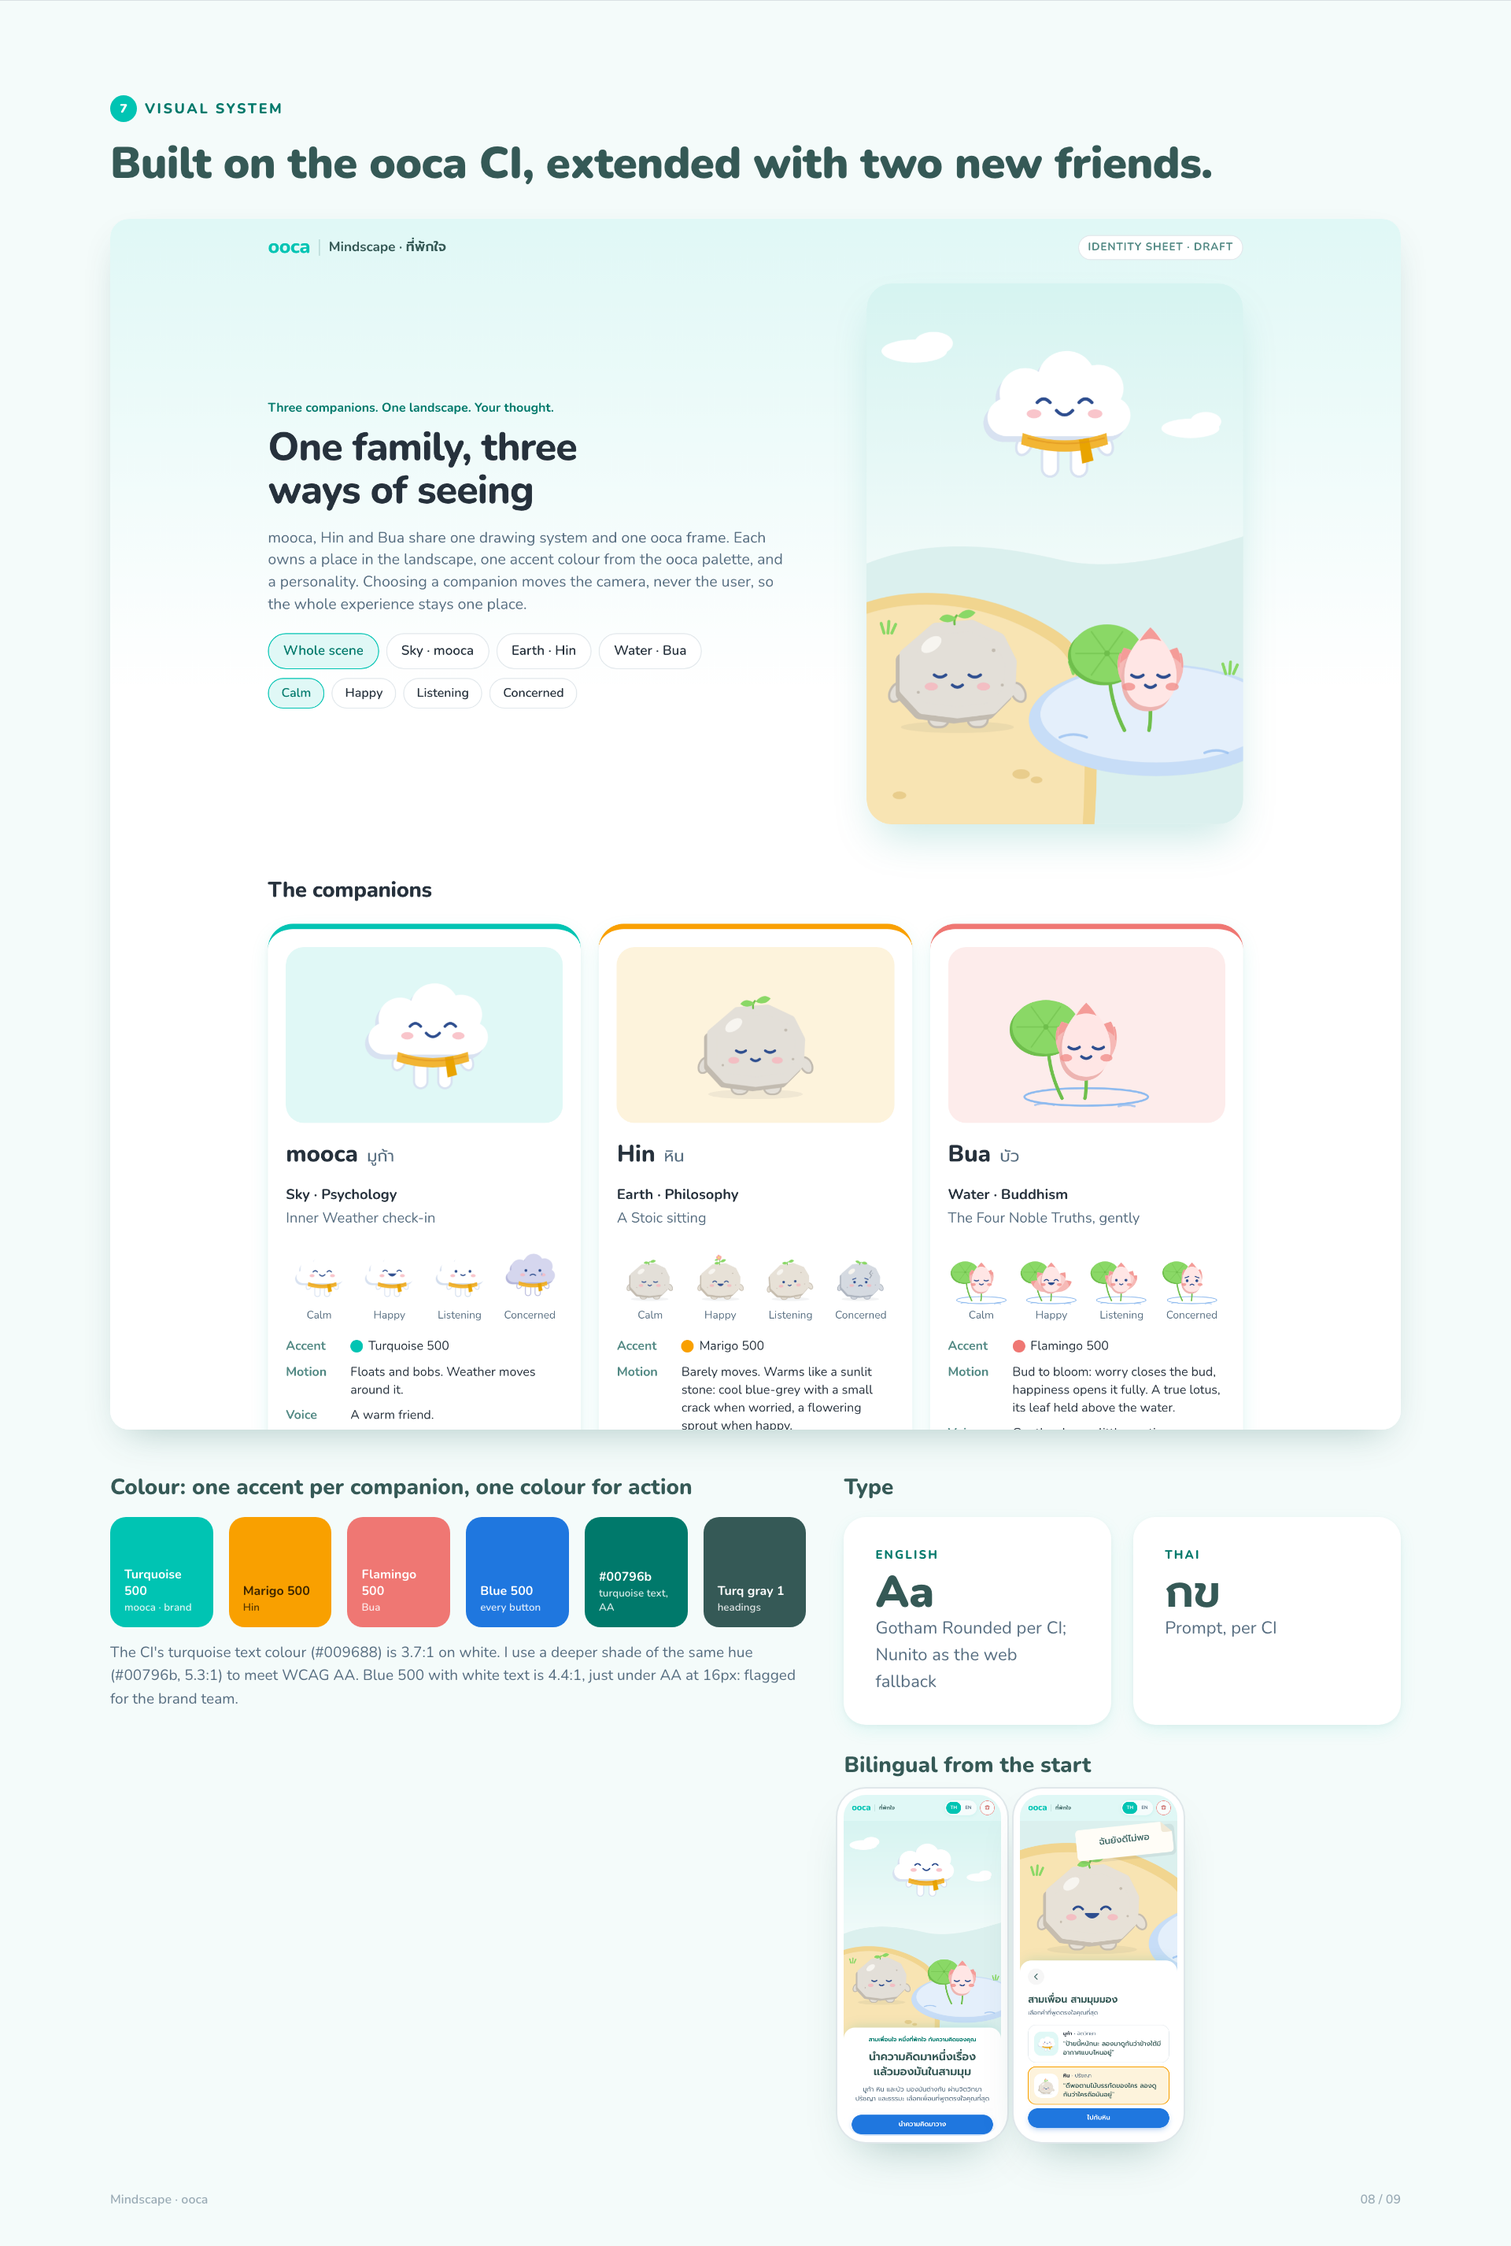
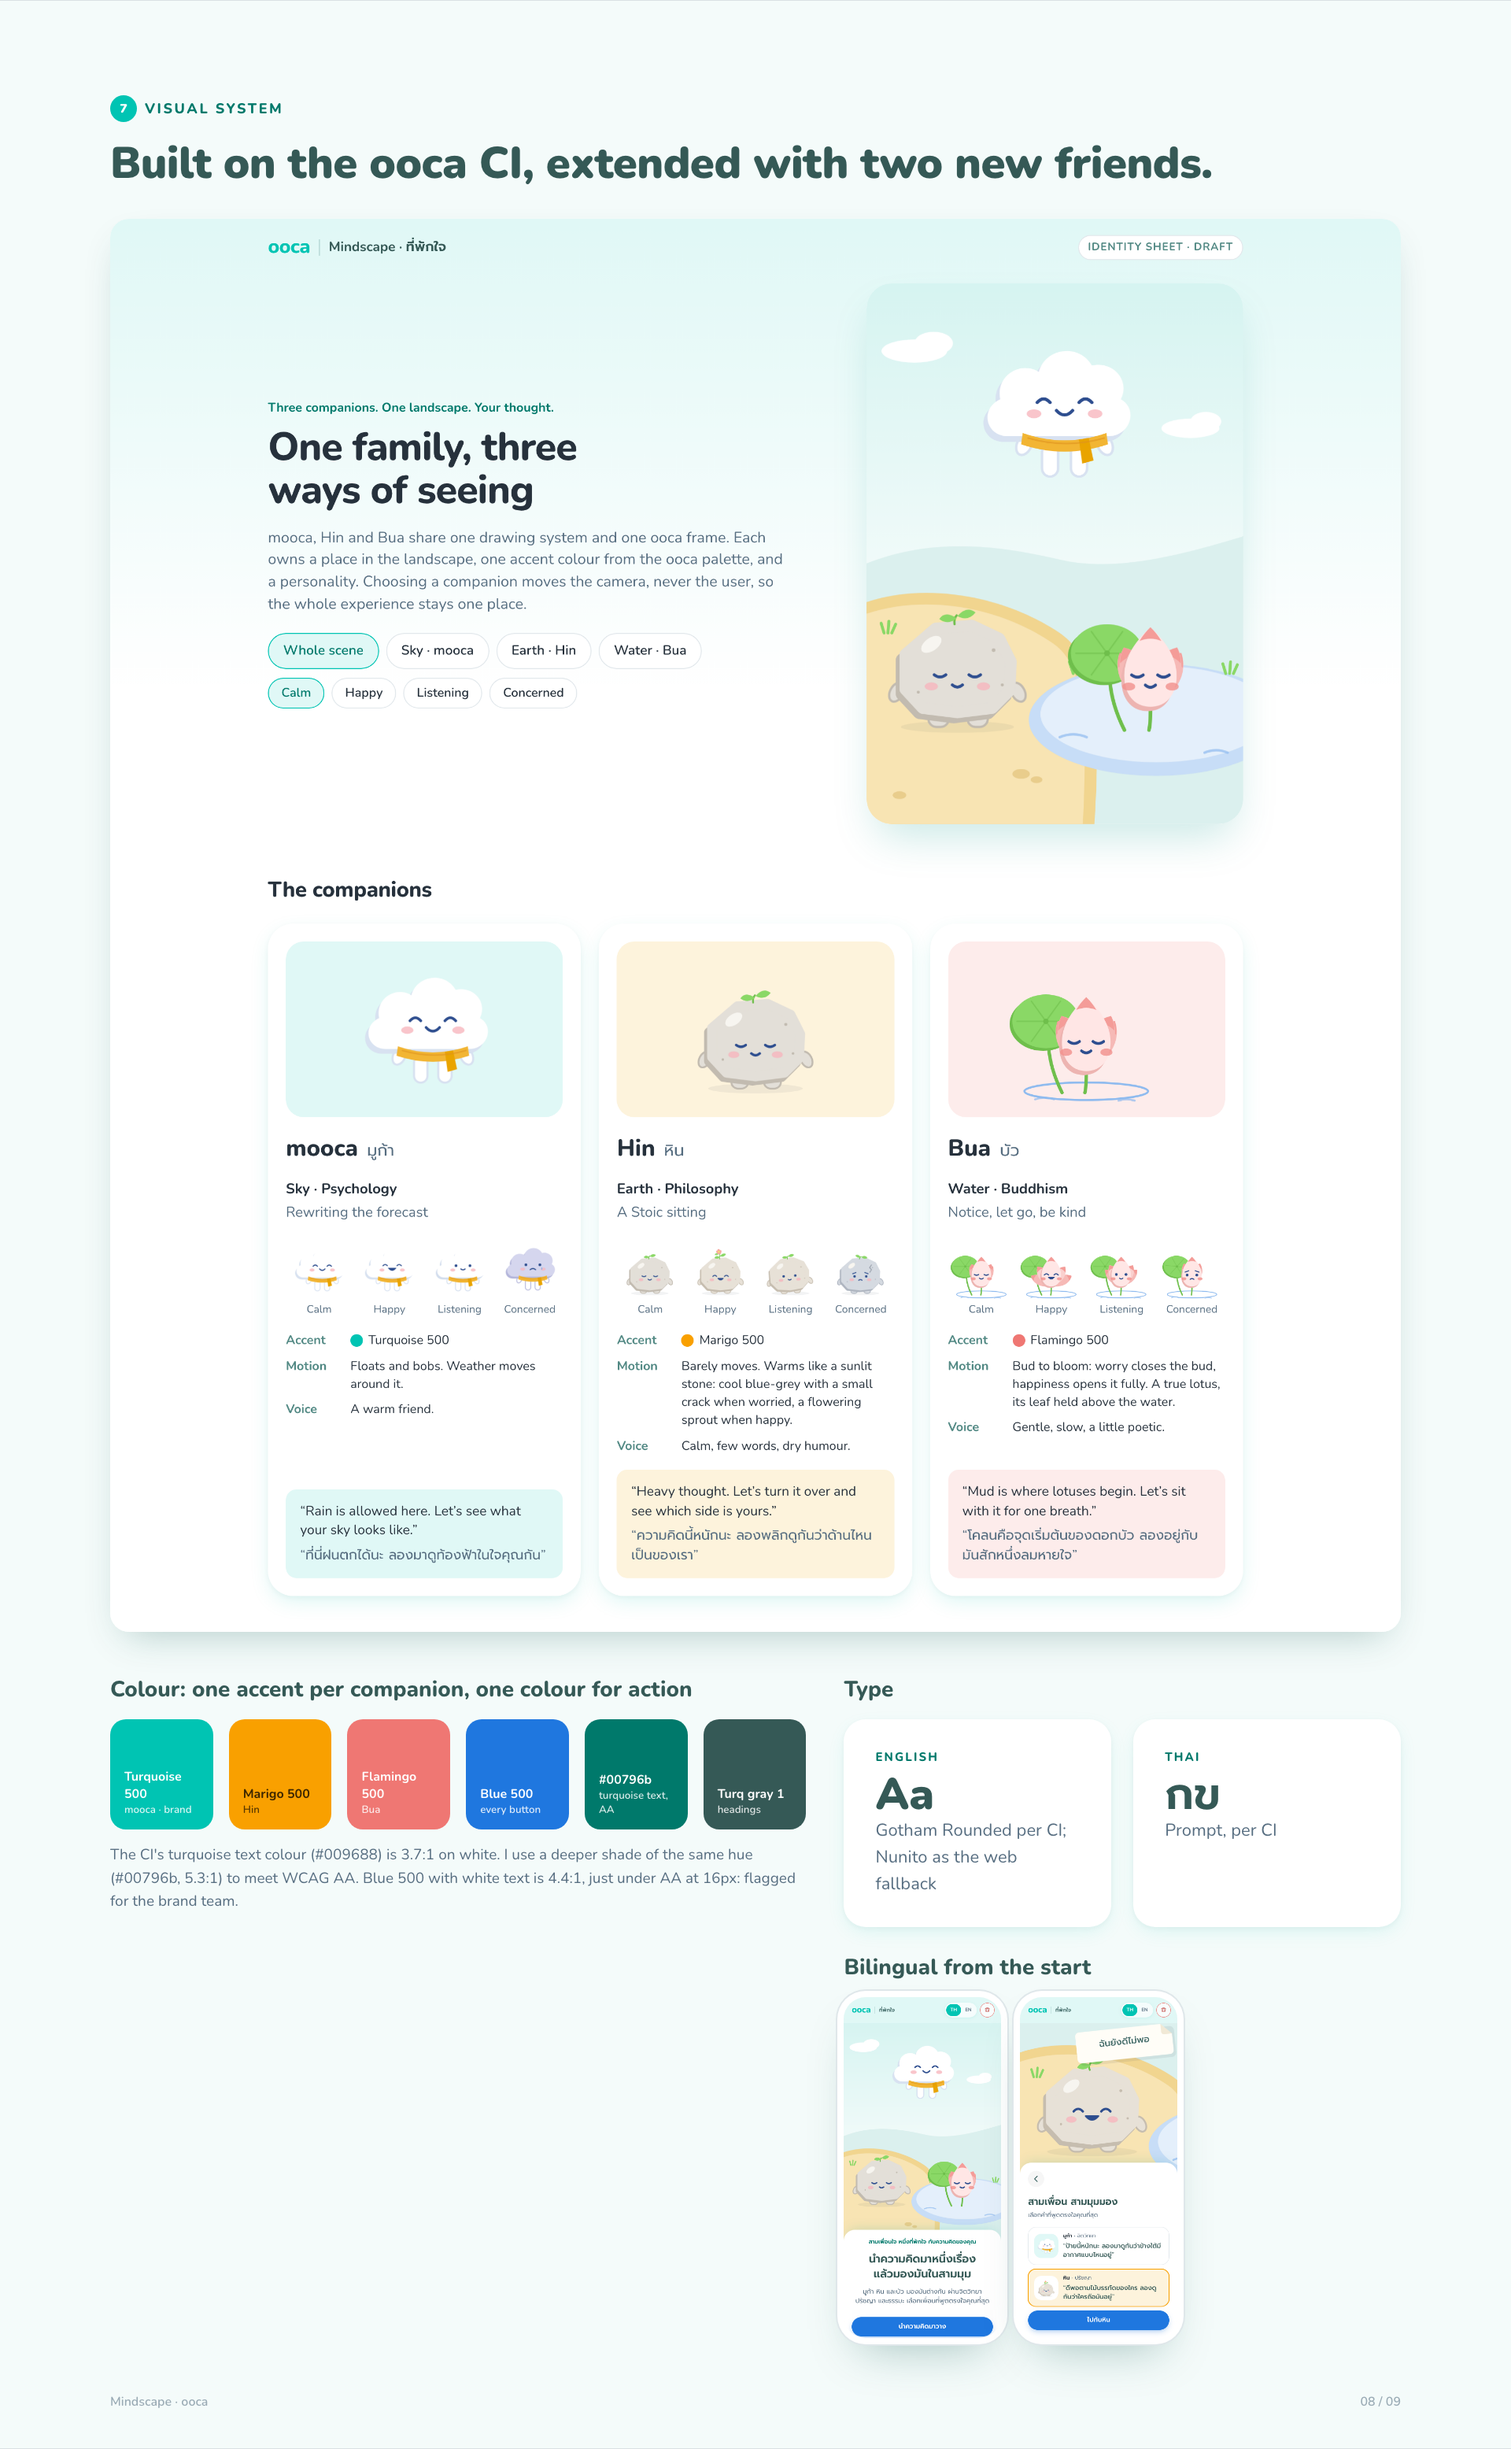
Identity sheet: drop card top border, current method names; board shows full cards

diff --git a/src/IdentitySheet.tsx b/src/IdentitySheet.tsx
@@ -39,7 +39,7 @@ const COMPANIONS: Companion[] = [
     thai: 'มูก้า',
     place: 'Sky',
     lens: 'Psychology',
-    method: 'Inner Weather check-in',
+    method: 'Rewriting the forecast',
     accent: { name: 'Turquoise 500', hex: '#00C4B3', tint: '#E0F8F6' },
     motion: 'Floats and bobs. Weather moves around it.',
     voice: 'A warm friend.',
@@ -67,7 +67,7 @@ const COMPANIONS: Companion[] = [
     thai: 'บัว',
     place: 'Water',
     lens: 'Buddhism',
-    method: 'The Four Noble Truths, gently',
+    method: 'Notice, let go, be kind',
     accent: { name: 'Flamingo 500', hex: '#EF7773', tint: '#FDECEB' },
     motion: 'Bud to bloom: worry closes the bud, happiness opens it fully. A true lotus, its leaf held above the water.',
     voice: 'Gentle, slow, a little poetic.',

diff --git a/src/sheet.css b/src/sheet.css
@@ -123,7 +123,6 @@
   background: var(--white);
   border-radius: var(--radius-lg);
   box-shadow: var(--shadow-2);
-  border-top: 6px solid var(--accent);
 }
 .companion__hero {
   display: grid;
